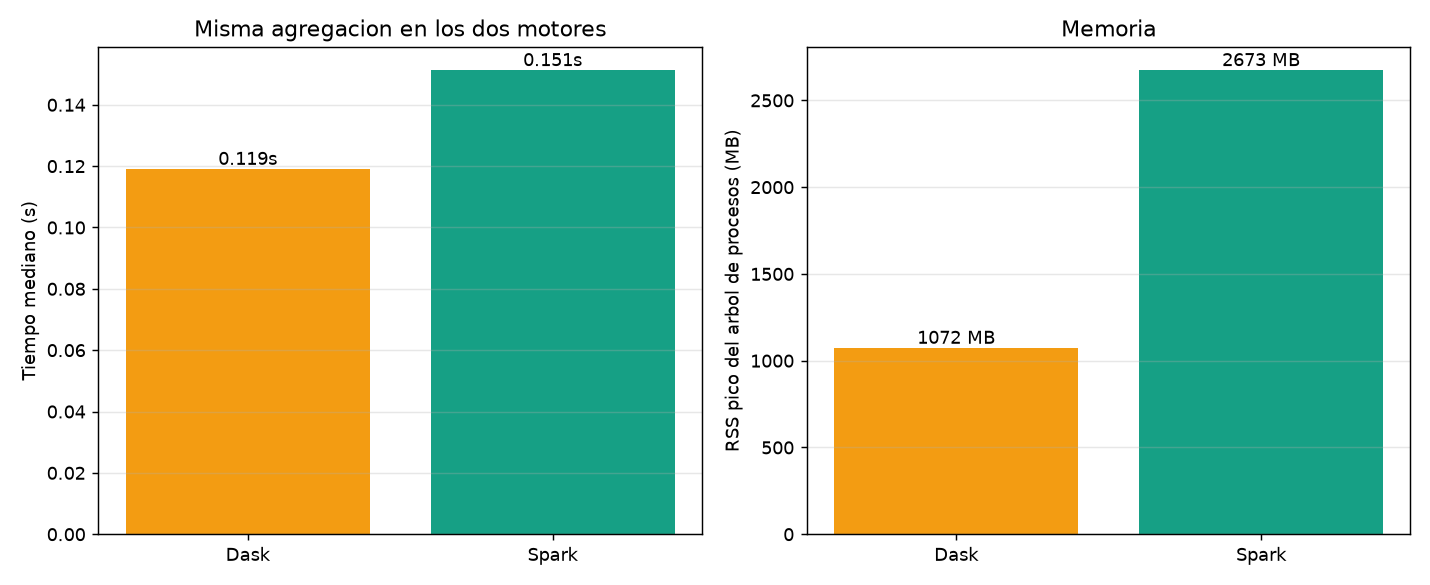
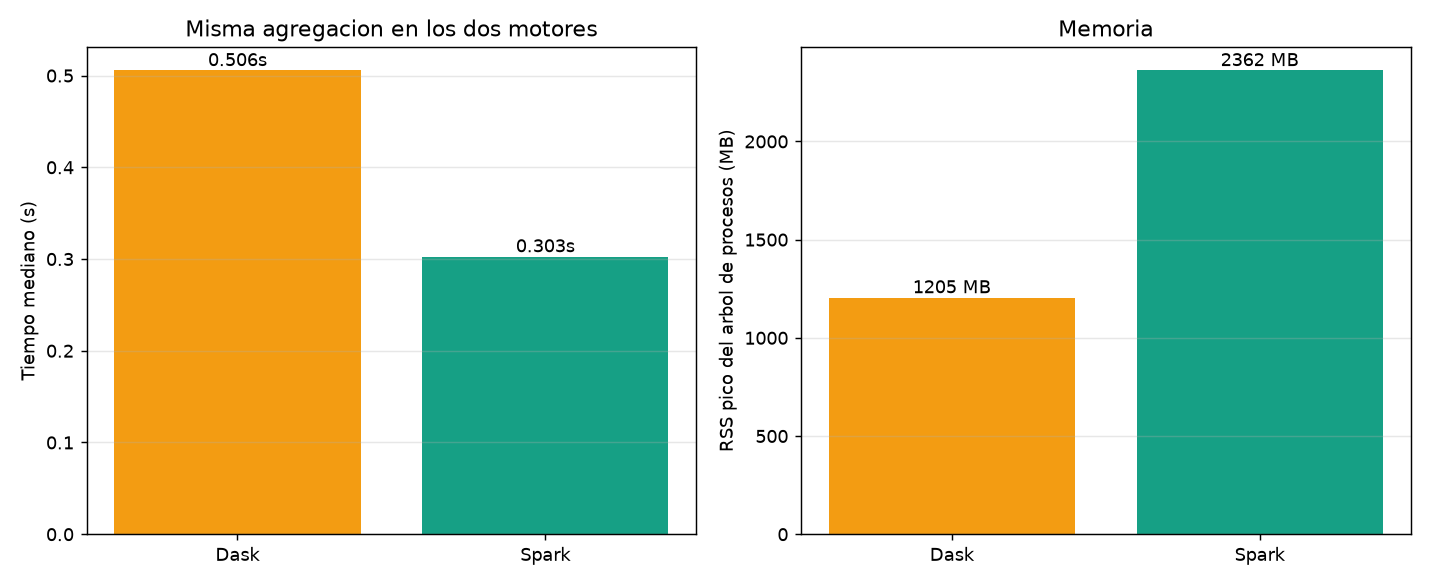
feat(api): serve the trained MLlib model over FastAPI

diff --git a/src/clinical_bigdata_pipeline/api.py b/src/clinical_bigdata_pipeline/api.py
@@ -1,0 +1,153 @@
+import json
+import os
+from contextlib import asynccontextmanager
+from pathlib import Path
+
+import pandas as pd
+from fastapi import FastAPI, HTTPException
+from pydantic import BaseModel, Field
+from pyspark.ml.classification import (
+    DecisionTreeClassificationModel,
+    LinearSVCModel,
+    LogisticRegressionModel,
+    NaiveBayesModel,
+    RandomForestClassificationModel,
+)
+from pyspark.ml.linalg import Vectors
+from pyspark.sql import SparkSession
+
+# Rutas
+RAIZ = Path(__file__).resolve().parents[2]
+DIR_SALIDAS = Path(os.environ.get("CBP_OUTPUT_DIR", RAIZ / "outputs")) / "heart_pipeline"
+DIR_MODELOS = Path(os.environ.get("CBP_MODELS_DIR", RAIZ / "models"))
+RUTA_SELECCION = DIR_SALIDAS / "seleccion_variables.csv"
+
+# MLlib guarda el nombre de la clase Java en la metadata. Cual de los cinco
+# modelos gano cambia entre corridas, asi que la clase se resuelve leyendo ese
+# campo en vez de fijarla aca.
+CLASES = {
+    "org.apache.spark.ml.classification.DecisionTreeClassificationModel":
+        DecisionTreeClassificationModel,
+    "org.apache.spark.ml.classification.RandomForestClassificationModel":
+        RandomForestClassificationModel,
+    "org.apache.spark.ml.classification.LinearSVCModel": LinearSVCModel,
+    "org.apache.spark.ml.classification.LogisticRegressionModel":
+        LogisticRegressionModel,
+    "org.apache.spark.ml.classification.NaiveBayesModel": NaiveBayesModel,
+}
+
+# Un encuestado cualquiera del BRFSS, solo para que /docs traiga el cuerpo ya
+# lleno y el endpoint se pueda probar desde el navegador.
+EJEMPLO = {
+    "GenHlth": 3, "Age": 9, "DiffWalk": 0, "HighBP": 1, "Stroke": 0,
+    "PhysHlth": 5, "HighChol": 1, "Diabetes": 0, "Income": 6, "Smoker": 1,
+}
+
+estado: dict = {}
+
+
+def cargar_variables(ruta: Path) -> list[str]:
+    seleccion = pd.read_csv(ruta)
+    return seleccion.loc[seleccion["seleccionada"], "variable"].tolist()
+
+
+def cargar_modelo(dir_modelos: Path):
+    """Busca el modelo guardado mas reciente y lo carga con la clase que toca.
+
+    Por fecha y no alfabeticamente: la etapa 4 guarda solo al ganador, pero si
+    en otra corrida gano otro modelo la carpeta vieja sigue ahi.
+    """
+    candidatos = sorted(
+        (d for d in dir_modelos.iterdir()
+         if d.is_dir() and (d / "metadata").is_dir()),
+        key=lambda d: d.stat().st_mtime,
+        reverse=True,
+    )
+    if not candidatos:
+        raise RuntimeError(
+            f"No hay ningun modelo en {dir_modelos}. Corre antes la etapa de "
+            f"entrenamiento: `docker compose up pyspark`."
+        )
+
+    dir_modelo = candidatos[0]
+    archivo = next((dir_modelo / "metadata").glob("part-*"))
+    clase_java = json.loads(archivo.read_text().splitlines()[0])["class"]
+
+    clase = CLASES.get(clase_java)
+    if clase is None:
+        raise RuntimeError(f"Modelo no soportado por la API: {clase_java}")
+
+    return dir_modelo.name, clase.load(str(dir_modelo))
+
+
+@asynccontextmanager
+async def lifespan(app: FastAPI):
+    spark = (
+        SparkSession.builder
+        .appName("clinical-bigdata-api")
+        
+        .master("local[1]")
+        .config("spark.ui.enabled", "false")
+        .getOrCreate()
+    )
+    spark.sparkContext.setLogLevel("WARN")
+
+    estado["spark"] = spark
+    estado["variables"] = cargar_variables(RUTA_SELECCION)
+    estado["nombre"], estado["modelo"] = cargar_modelo(DIR_MODELOS)
+    print(f"Modelo cargado: {estado['nombre']}  |  variables: {estado['variables']}")
+
+    yield
+
+    spark.stop()
+
+
+app = FastAPI(
+    title="Clinical Big Data Pipeline - API",
+    description="Expone el modelo MLlib que entreno la etapa 4 del pipeline.",
+    version="0.1.0",
+    lifespan=lifespan,
+)
+
+
+class Paciente(BaseModel):
+    """Un encuestado: el valor de cada variable seleccionada."""
+
+    features: dict[str, float] = Field(..., examples=[EJEMPLO])
+
+
+@app.get("/")
+def info() -> dict:
+    """Que modelo quedo cargado y que espera recibir."""
+    return {
+        "modelo": estado["nombre"],
+        "variables": estado["variables"],
+        "objetivo": "HeartDiseaseorAttack",
+        "endpoint": "POST /predict",
+        "documentacion": "/docs",
+    }
+
+
+@app.post("/predict")
+def predict(paciente: Paciente) -> dict:
+    """Clasifica un encuestado: 1 = infarto o enfermedad coronaria."""
+    variables = estado["variables"]
+
+    faltantes = [v for v in variables if v not in paciente.features]
+    if faltantes:
+        raise HTTPException(422, f"Faltan variables: {faltantes}")
+
+    # El orden lo manda `variables`, no el del JSON que llego
+    fila = [float(paciente.features[v]) for v in variables]
+    sdf = estado["spark"].createDataFrame([(Vectors.dense(fila),)], ["features"])
+    prediccion = estado["modelo"].transform(sdf).first().asDict()
+
+    respuesta = {
+        "modelo": estado["nombre"],
+        "prediccion": int(prediccion["prediction"]),
+        "riesgo": bool(prediccion["prediction"] == 1),
+    }
+    # LinearSVC no estima probabilidades: solo tiene margen (rawPrediction)
+    if "probability" in prediccion:
+        respuesta["probabilidad"] = round(float(prediccion["probability"][1]), 4)
+    return respuesta

diff --git a/src/clinical_bigdata_pipeline/spark_stage.py b/src/clinical_bigdata_pipeline/spark_stage.py
@@ -1,10 +1,3 @@
-"""Etapas 3, 4, mitad Spark de la 5, y 6.
-
-Procesamiento distribuido, analisis sobre RDDs, modelos MLlib, comparacion
-entre motores y visualizaciones. Corre en el contenedor `pyspark` con el
-comando `cbp-spark`, sobre el Parquet que escribio Dask.
-"""
-
 import os
 import time
 from pathlib import Path
@@ -29,7 +22,7 @@ from pyspark.sql import functions as F
 
 from . import visualize
 
-# --- rutas -----------------------------------------------------------------
+# Rutas 
 # Repetidas aca a proposito: este contenedor no tiene Dask instalado y no puede
 # importar nada de dask_stage.
 RAIZ = Path(__file__).resolve().parents[2]
@@ -41,7 +34,7 @@ DIR_PARQUET = DIR_DATOS / "curated"
 DIR_RESULTADOS = DIR_DATOS / "resultados"
 RUTA_FILAS = DIR_DATOS / "filas_dask.txt"
 
-# --- parametros ------------------------------------------------------------
+# Parametros 
 SPARK_MASTER = "local[*]"
 REPETICIONES_BENCHMARK = 5
 
@@ -113,7 +106,6 @@ def prevalencia_por_variable(sdf: DataFrame, variables: list[str]) -> pd.DataFra
     }]
     columnas = binarias + [OBJETIVO]
 
-    # ---------- PLANEACION: transformaciones, no se ejecuta nada ----------
     rdd = (
         sdf.select(*columnas).rdd
         .flatMap(lambda fila: [
@@ -122,7 +114,6 @@ def prevalencia_por_variable(sdf: DataFrame, variables: list[str]) -> pd.DataFra
         .reduceByKey(lambda a, b: (a[0] + b[0], a[1] + b[1]))
     )
 
-    # ---------- EJECUCION: la accion dispara el trabajo ----------
     conteos = rdd.collect()
 
     filas = [

diff --git a/src/clinical_bigdata_pipeline/dask_stage.py b/src/clinical_bigdata_pipeline/dask_stage.py
@@ -1,10 +1,3 @@
-"""Etapas 1, 2 y mitad Dask de la 5.
-
-Ingesta, limpieza, variables derivadas, EDA y seleccion de variables. Corre en
-el contenedor `dask` con el comando `cbp-dask` y deja un Parquet particionado
-que despues lee el contenedor `pyspark`.
-"""
-
 import os
 import shutil
 import time
@@ -16,7 +9,7 @@ import pandas as pd
 import psutil
 from dask.distributed import Client, LocalCluster
 
-# --- rutas -----------------------------------------------------------------
+# Rutas 
 # Contra este archivo y no contra el cwd: asi valen igual desde la terminal,
 # desde Jupyter y desde el contenedor.
 RAIZ = Path(__file__).resolve().parents[2]
@@ -27,13 +20,13 @@ RUTA_CSV = DIR_DATOS / "raw" / "heart_disease_health_indicators_BRFSS2015.csv"
 DIR_PARQUET = DIR_DATOS / "curated"
 RUTA_FILAS = DIR_DATOS / "filas_dask.txt"  # Spark lo lee para verificar el traspaso
 
-# --- parametros ------------------------------------------------------------
-N_WORKERS = 4  # explicito: os.cpu_count() ve los 16 del host, no el limite del contenedor
-BLOCKSIZE = "2MB"  # el default son 64 MiB y el CSV pesa 21,7: seria 1 sola particion
+# parametros 
+N_WORKERS = 4  
+BLOCKSIZE = "2MB"  
 TOP_VARIABLES = 10
 REPETICIONES_BENCHMARK = 5
 
-OBJETIVO = "HeartDiseaseorAttack"  # es la PRIMERA columna del CSV, no la ultima
+OBJETIVO = "HeartDiseaseorAttack"  
 
 DATASET_KAGGLE = "alexteboul/heart-disease-health-indicators-dataset"
 NOMBRE_CSV = "heart_disease_health_indicators_BRFSS2015.csv"

diff --git a/src/clinical_bigdata_pipeline/visualize.py b/src/clinical_bigdata_pipeline/visualize.py
@@ -1,9 +1,3 @@
-"""Etapa 6: las tres visualizaciones que pide la guia.
-
-Todas salen de DataFrames agregados de pocas filas. El assert es la evidencia
-literal de que no se convierten los datos masivos completos a pandas.
-"""
-
 from pathlib import Path
 
 import matplotlib

diff --git a/README.md b/README.md
@@ -42,6 +42,13 @@ Ejecutar los notebooks en orden. El notebook `03_genetic_algorithm_dask.ipynb` l
  │  · variables derivad.│                          │    (flatMap/reduceByKey)│
  │  · EDA + selección   │ ◄─────────────────────── │  · modelo MLlib        │
  └──────────────────────┘    ./data/resultados     └────────────────────────┘
+                                                              │ modelo MLlib
+                                                              ▼ volumen ./models
+                                                  ┌────────────────────────┐
+                                                  │  contenedor API        │
+                                                  │  · FastAPI + uvicorn   │
+                                                  │  · POST /predict       │
+                                                  └────────────────────────┘
 ```
 
 Dask y Spark **no son dos ejercicios separados**: se pasan los datos por un volumen compartido en formato Parquet, y `docker compose` declara la dependencia con `service_completed_successfully`, de modo que Spark no arranca hasta que Dask terminó de escribir.
@@ -56,6 +63,7 @@ Dask y Spark **no son dos ejercicios separados**: se pasan los datos por un volu
 | Agregaciones distribuidas | **Spark** | Catalyst optimiza el plan lógico y aprovecha el particionado del Parquet |
 | Conteos sobre RDDs | **Spark** | La API de RDD hace explícita la separación entre transformaciones y acciones |
 | Modelo | **Spark MLlib** | Biblioteca de ML realmente distribuida |
+| API de inferencia | **FastAPI** | El modelo entrenado se consulta fila a fila: ahí no hay nada que distribuir |
 
 ### Requisitos
 
@@ -68,6 +76,9 @@ GID=1000
 
 CBP_DASK_MEM=2g
 CBP_SPARK_MEM=3g
+CBP_API_MEM=2g
+
+CBP_API_PORT=8000
 
 ### Ejecución
 
@@ -82,7 +93,7 @@ uv run python -c "from clinical_bigdata_pipeline import dask_stage; \
 # 1. Construir las dos imágenes
 docker compose build
 
-# 2. Ejecutar el pipeline completo: primero Dask, después Spark
+# 2. Ejecutar el pipeline completo: Dask, después Spark, después la API
 docker compose up
 ```
 
@@ -90,6 +101,30 @@ Mientras corre:
 
 - **Dashboard de Dask** — http://localhost:8787
 - **Spark UI** — http://localhost:4040 (visible mientras Spark trabaja)
+- **API** — http://localhost:8000/docs (queda levantada cuando el pipeline termina)
+
+### La API
+
+El último servicio del `compose` no es una etapa más del pipeline: es un servidor que queda escuchando. Arranca con `service_completed_successfully` sobre `pyspark`, de modo que solo se levanta cuando el entrenamiento terminó y dejó el mejor modelo escrito en `./models`. Al arrancar lo carga una sola vez —abrir una `SparkSession` cuesta varios segundos y no puede pagarse en cada petición— y monta `./models` y `./outputs` en **solo lectura**: la API consume artefactos del pipeline, no los produce.
+
+| Endpoint | Qué hace |
+|---|---|
+| `GET /` | Qué modelo quedó cargado y qué variables espera recibir |
+| `POST /predict` | Clasifica un encuestado: `1` = infarto o enfermedad coronaria |
+| `GET /docs` | Swagger UI, con el cuerpo de ejemplo ya lleno |
+
+```bash
+curl -X POST http://localhost:8000/predict \
+  -H 'Content-Type: application/json' \
+  -d '{"features": {"GenHlth": 3, "Age": 9, "DiffWalk": 0, "HighBP": 1, "Stroke": 0,
+                    "PhysHlth": 5, "HighChol": 1, "Diabetes": 0, "Income": 6, "Smoker": 1}}'
+```
+
+```json
+{"modelo": "NaiveBayes", "prediccion": 0, "riesgo": false, "probabilidad": 0.3522}
+```
+
+Cuál de los cinco modelos quedó guardado cambia entre corridas (es el mejor por accuracy), así que la API no fija el nombre: lo resuelve leyendo la metadata que escribe MLlib. Las variables y **su orden** los lee de `seleccion_variables.csv`, porque el vector de features del modelo solo conoce posiciones.
 
 ### Parámetros
 
@@ -128,15 +163,20 @@ clinical-bigdata-pipeline/
 │   ├── pyspark/
 │   │   ├── Dockerfile                          # Imagen del contenedor de Spark (con JRE 21)
 │   │   └── requirements.txt
-│   └── clinical_bigdata_pipeline/              # Paquete compartido por ambos contenedores
+│   ├── api/
+│   │   ├── Dockerfile                          # Imagen de la API (FastAPI + JRE 21 para MLlib)
+│   │   └── requirements.txt
+│   └── clinical_bigdata_pipeline/              # Paquete compartido por los tres contenedores
 │       ├── dask_stage.py                       # Etapas 1-2 y mitad Dask de la 5 · comando cbp-dask
 │       ├── spark_stage.py                      # Etapas 3-4 y mitad Spark de la 5 · comando cbp-spark
-│       └── visualize.py                        # Etapa 6: las tres figuras
+│       ├── visualize.py                        # Etapa 6: las tres figuras
+│       └── api.py                              # Etapa 7: la API que sirve el modelo entrenado
 ├── outputs/
 │   ├── ga_secuencial_vs_dask.png               # Trabajo 1
 │   ├── tiempo_secuencial.csv                   # Trabajo 1
 │   └── heart_pipeline/                         # Trabajo 2
 ├── data/                                       # No versionado: dataset y Parquet generados
+├── models/                                     # El mejor modelo de la etapa 4, que sirve la API
 ├── docker-compose.yml
 ├── .dockerignore
 ├── .env                                        # Parámetros de ejecución
